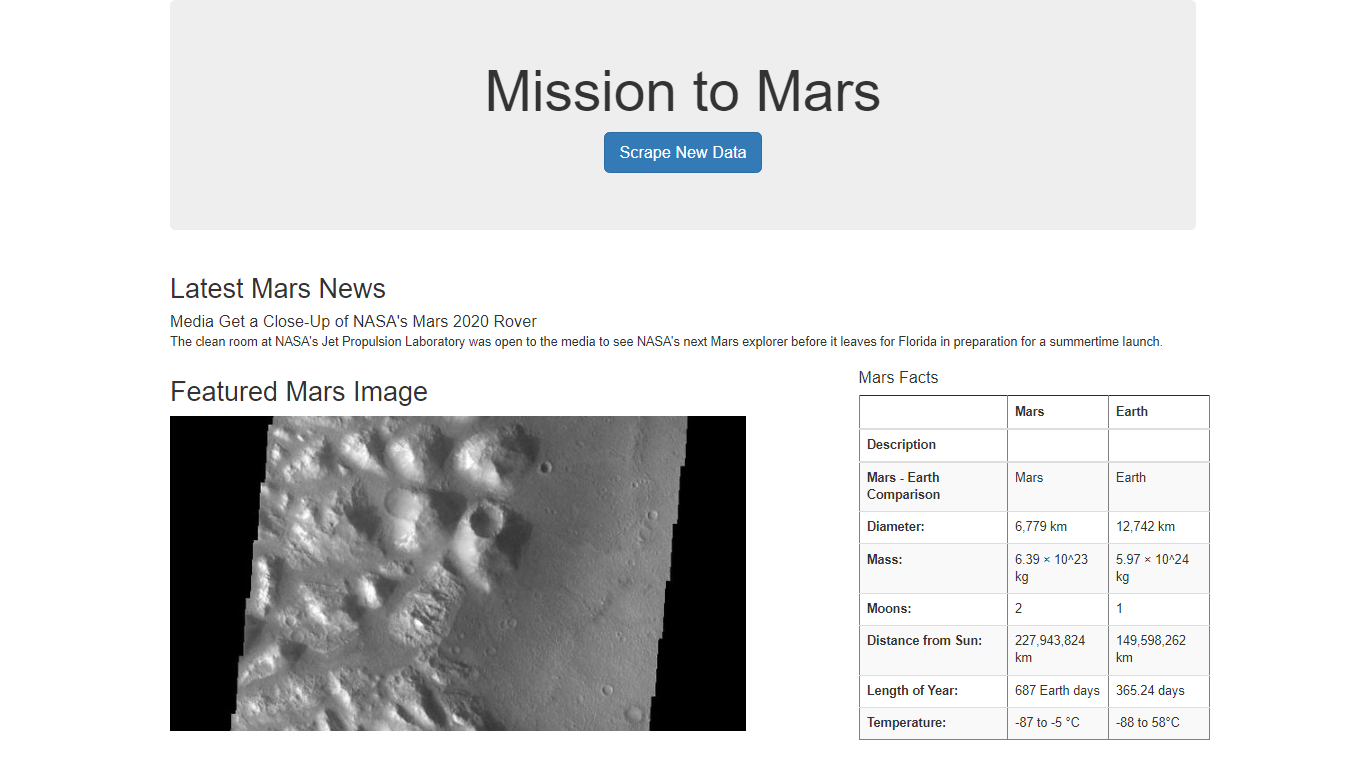
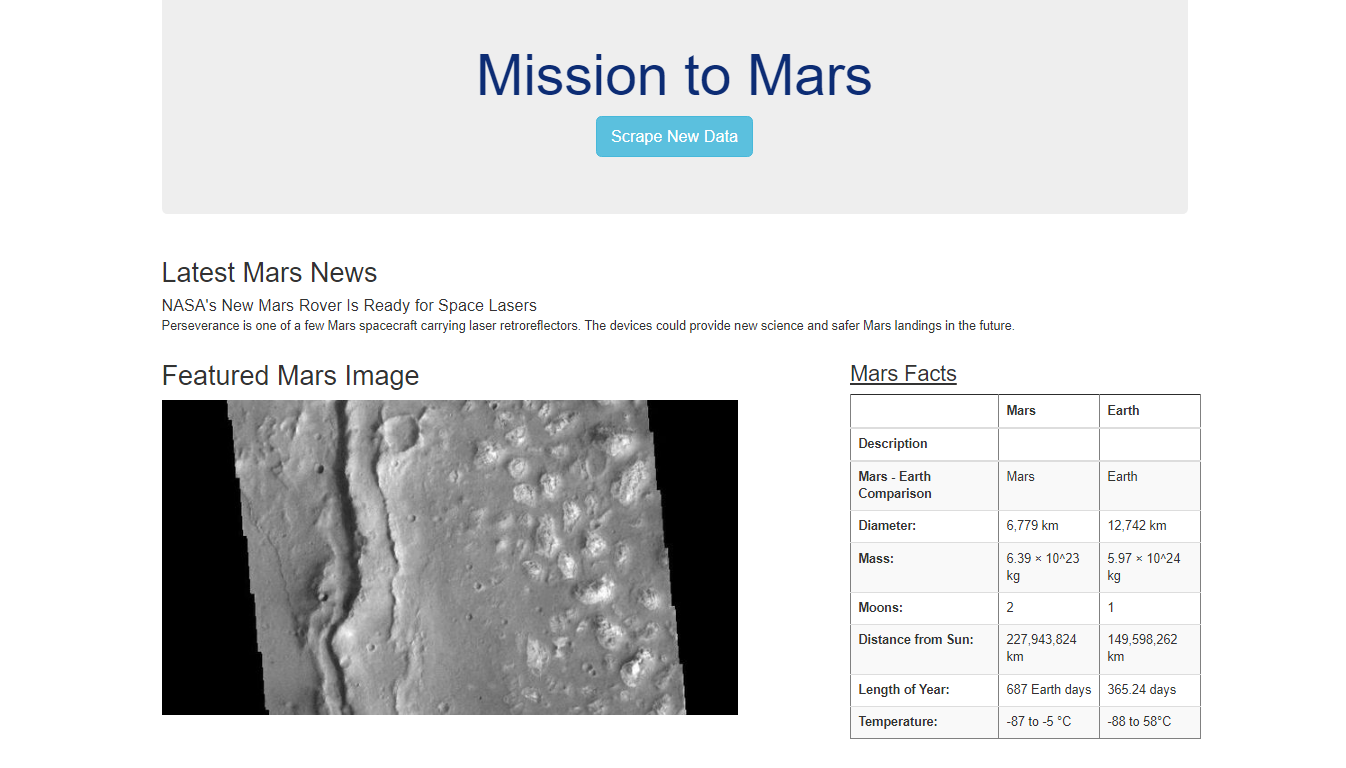
updating README file images.

Changed region(s): [[0.0936, 0.3438, 0.9049, 0.9688], [0.3432, 0.0625, 0.6553, 0.25], [0.8737, 0.5938, 0.9049, 0.625]]

diff --git a/Mars_Scraping/templates/index.html b/Mars_Scraping/templates/index.html
@@ -14,10 +14,14 @@
     <div class="container">
       <!-- Add Jumbotron to Header -->
       <div class="jumbotron text-center">
-        <h1>Mission to Mars</h1>
+        <h1 class="font-weight-light" style="color:rgb(12, 44, 116)">Mission to Mars</h1>
         <!-- Add a button to activate scraping script -->
-        <p><a class="btn btn-primary btn-lg" href="/scrape" role="button">Scrape New Data</a></p>
+
+        <!-- ! Added btn-info class to change color of the button for deliverable 3 -->
+        <p><a class="btn btn-primary btn-lg btn-info" href="/scrape" role="button" >Scrape New Data</a></p> 
+      
       </div>
+
       <!-- Add section for Mars News -->
       <div class="row" id="mars-news">
         <div class="col-md-12">
@@ -30,45 +34,65 @@
           </div>
         </div>
       </div>
+
       <!-- Section for Featured Image and Facts table -->
       <div class="row" id="mars-featured-image">
-        <div class="col-md-8">
+        <div class="col-xs-12 col-md-8">
           <h2>Featured Mars Image</h2>
+
+          <!-- if images is False/None/non-existent, then default to error message -->
           <img
-            src="{{mars.featured_image }}"
+            src="{{mars.featured_image | default('static/images/error.png', true) }}"
             class="img-responsive"
             alt="Responsive image"
           />
         </div>
-        <div class="col-md-4">
+
+        <div class="col-xs-12 col-md-4">
           <!-- Mars Facts -->
           <div class="row" id="mars-facts">
-            <h4>Mars Facts</h4>
-            {{ mars.facts | safe }}
+
+            <!-- ! h3 text was underlined for deliverable 3 -->
+            <!-- ! In scraping.py, bootstrap element was added in df.to_html() to customize the table for deliverable 3 -->
+
+              <h3><u>Mars Facts</u></h3>
+              {{ mars.facts | safe }}
           </div>
         </div>
       </div>
      
-<!-- Mars Hemispheres -->
-<div class="container-fluid" style="background-color: #99857A;">
-  <div class="row">
-    <h1 class="text-center">Hemispheres of Mars</h1>
-    <br>
-  {% for dict in mars.hemispheres %}
-      <div class="col-md-6 text-center">
-        <div class="card text-center" style="width: 32rem;">
-          <img class="card-img-top text-center" id="scale_id" src="{{ dict.img_url }}">
-            <div class="card-body text-center">
-              <h4 class="card-title text-center">{{ dict.title }}</h4>
+      
+      <!-- Section for Mars Hemispheres -->
+      <div class="row" id="mars-hemispheres">
+        <div class="page-header">
+          <h2 class="text-center">Mars Hemispheres</h2>
+        </div>
+
+        <!-- ! bootstrap element was added to place 4 hemispheric images in a row for deliverable 3 -->
+
+        {% for hemisphere in mars.hemispheres %}
+        <!--  ! hidden-xs was added to hide thumbnail on xs for deliverable 3-->
+        <div class="col-sm-3 hidden-xs">
+          <div class="thumbnail">
+            <img src="{{hemisphere.img_url | default('static/images/error.png', true)}}" alt="...">
+            <div class="caption">
+              <h3>{{hemisphere.title}}</h3>
             </div>
           </div>
+        </div>
+        {% endfor %}
+        {% for hemisphere in mars.hemispheres %}
+        <div class="col-md-6">
+          <div class="thumbnail">
+            <img src="{{hemisphere.img_url | default('static/images/error.png', true)}}" alt="...">
+            <div class="caption">
+              <h3>{{hemisphere.title}}</h3>
+            </div>
+          </div>
+        </div>
+        {% endfor %}
       </div>
-  {% endfor %}
-  </div>
-  </div>
-  
-  
+    </div>
   </body>
-  
-  </html>
+</html>
    

diff --git a/Mars_Scraping/scraping.py b/Mars_Scraping/scraping.py
@@ -4,25 +4,46 @@ from bs4 import BeautifulSoup as soup
 import pandas as pd
 import datetime as dt
 from webdriver_manager.chrome import ChromeDriverManager
+import time
 
 
+# Set up Splinter
 def scrape_all():
+
     # Initiate headless driver for deployment
     executable_path = {'executable_path': ChromeDriverManager().install()}
     browser = Browser('chrome', **executable_path, headless=True)
 
+
     news_title, news_paragraph = mars_news(browser)
+
+
+    # Run all scraping functions and store results in a dictionary
+    data = {
+        "news_title": news_title,
+        "news_paragraph": news_paragraph,
+        "featured_image": featured_image(browser),
+        "facts": mars_facts(),
+        "last_modified": dt.datetime.now(),
+        "hemispheres": hemisphere_image_urls
+    }
+
+    # Stop webdriver and return data
+    browser.quit()
+    return data
 
 
 # Scrape Mars News
 def mars_news(browser):
-    
+
     # Visit the Mars NASA news site
     url = 'https://data-class-mars.s3.amazonaws.com/Mars/index.html'
+    
     browser.visit(url)
-
+   
     # Optional delay for loading the page
     browser.is_element_present_by_css('div.list_text', wait_time=1)
+    # time.sleep(1) # this one delays the loading too
 
     # Convert the browser html to a soup object and then quit the browser
     html = browser.html
@@ -46,12 +67,13 @@ def mars_news(browser):
 def featured_image(browser):
     # Visit URL
     url = 'https://data-class-jpl-space.s3.amazonaws.com/JPL_Space/index.html'
+    
     time.sleep(1)
+    
     browser.visit(url)
-
+    
     # Find and click the full image button
     full_image_elem = browser.find_by_tag('button')[1]
-    # ! full_image_elem = browser.find_by_tag('button')[0]
     full_image_elem.click()
 
     # Parse the resulting html with soup
@@ -88,100 +110,37 @@ def mars_facts():
     # Convert dataframe into HTML format, add bootstrap
     return df.to_html(classes="table table-striped")
 
-   
-# ! hemispheric codes start from here
-# Scrape hemispheres data
-    browser.visit('https://astrogeology.usgs.gov/search/results?q=hemisphere+enhanced&k1=target&v1=Mars')
-    
+
+
+# hemispheric codes start from here
+def hemispheres(browser):
+    # 1. Use browser to visit the URL 
+    url = 'https://marshemispheres.com/'
+
     time.sleep(1)
     
-    # Scrape page into Soup
-    html = browser.html
-    soup = bs(html, 'html.parser')
+    browser.visit(url)
 
-    hemi_names = []
-
-    # Search for the names of all four hemispheres
-    results = soup.find_all('div', class_="collapsible results")
-    hemispheres = results[0].find_all('h3')
-
-    # Get text and store in list
-    for name in hemispheres:
-        hemi_names.append(name.text)
-
-    # Search for thumbnail links
-    thumbnail_results = results[0].find_all('a')
-    thumbnail_links = []
-
-    # Iterate through thumbnail links for full-size image
-    for thumbnail in thumbnail_results:
-        
-        # If the thumbnail element has an image 
-        if (thumbnail.img):
-            
-            # then retrieve the attached link
-            thumbnail_url = 'https://astrogeology.usgs.gov/' + thumbnail['href']
-            
-            # Append list with links
-            thumbnail_links.append(thumbnail_url)
-    
-    full_imgs = []
-
-    for url in thumbnail_links:
-        
-        # Click through each thumbanil link
-        browser.visit(url)
-        
-        html = browser.html
-        soup = bs(html, 'html.parser')
-        
-        # Scrape each page for the relative image path
-        results = soup.find_all('img', class_='wide-image')
-        relative_img_path = results[0]['src']
-        
-        # Combine the reltaive image path to get the full url
-        img_link = 'https://astrogeology.usgs.gov/' + relative_img_path
-        
-        # Add full image links to a list
-        full_imgs.append(img_link)
-
-    # Zip together the list of hemisphere names and hemisphere image links
-    mars_hemi_zip = zip(hemi_names, full_imgs)
-
+    # 2. Create a list to hold the images and titles.
     hemisphere_image_urls = []
 
-    # Iterate through the zipped object
-    for title, img in mars_hemi_zip:
-        
-        mars_hemi_dict = {}
-        
-        # Add hemisphere title to dictionary
-        mars_hemi_dict['title'] = title
-        
-        # Add image url to dictionary
-        mars_hemi_dict['img_url'] = img
-        
-        # Append the list with dictionaries
-        hemisphere_image_urls.append(mars_hemi_dict)
-    
+    # 3. Write code to retrieve the image urls and titles for each hemisphere.    
+    for i in range(4):
+        hemispheres = {}
+        browser.find_by_css('a.product-item h3')[i].click()
+        element = browser.links.find_by_text('Sample').first
+        img_url = element['href']
+        title = browser.find_by_css("h2.title").text
+        hemispheres["img_url"] = img_url
+        hemispheres["title"] = title
+        hemisphere_image_urls.append(hemispheres)
+        browser.back()
+
+    # 4. Print the list that holds the dictionary of each image url and title.
+        return hemisphere_image_urls
 
 
-    # Run all scraping functions and store results in a dictionary
-    mars_data = {
-        "news_title": news_title,
-        "news_paragraph": news_paragraph,
-        "featured_image": featured_image(browser),
-        "facts": mars_facts(),
-        "last_modified": dt.datetime.now(),
-        "hemispheres": hemisphere_image_urls
-    }
+if __name__ == "__main__":
 
-    # ! Stop webdriver and return data
-    browser.quit()
-
-# if __name__ == "__main__":
-
-    # Return results
-    mars_data
-
-
+    # If running as script, print scraped data
+    print(scrape_all())

diff --git a/Mars_Scraping/app.py b/Mars_Scraping/app.py
@@ -1,9 +1,10 @@
-from flask import Flask, render_template, redirect, url_for
+from flask import Flask, render_template, redirect, url_for 
 from flask_pymongo import PyMongo
 import scraping
 
-
+# Set up Flask
 app = Flask(__name__)
+
 # Use flask_pymongo to set up mongo connection
 app.config["MONGO_URI"] = "mongodb://localhost:27017/myDatabase" 
 mongo = PyMongo(app)
@@ -23,9 +24,10 @@ def scrape():
    mars_data = scraping.scrape_all()
    # Now that we've gathered new data, we need to update the database
    mars.update({}, mars_data, upsert=True)
-   return redirect('/', code=302)
+   return "Scraping Successful!"
+   # return redirect('/', code=302)
 
 
-# The final bit of code we need for Flask is to tell it to run. 
+# Tell Flask to run the code 
 if __name__ == "__main__":
    app.run(debug=True)
